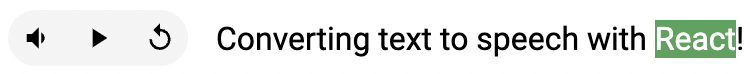
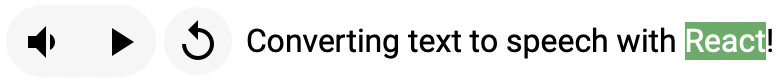
style: the component replay button is now absolutely positioned. (#32)

Changed region(s): [[0.1227, 0.2432, 1.0, 0.7838], [0.0307, 0.3243, 0.092, 0.7027]]

diff --git a/src/control.tsx b/src/control.tsx
@@ -1,11 +1,12 @@
-import { useState, useMemo, useCallback } from 'react'
-import type { MouseEventHandler, CSSProperties } from 'react'
+import { useMemo, useEffect } from 'react'
+import type { MouseEventHandler } from 'react'
 
 import { Sizes, icons, iconSizes } from './icons'
 
 interface ControlProps {
   title: string
   size?: `${Sizes}`
+  align?: 'vertical' | 'horizontal'
   type: 'play' | 'stop' | 'pause' | 'replay' | 'volumeDown' | 'volumeOff' | 'volumeUp'
   onClick: MouseEventHandler<HTMLButtonElement>
 }
@@ -15,42 +16,64 @@ const padding = {
   [Sizes.MEDIUM]: 5,
   [Sizes.LARGE]: 5
 }
-const button = (
-  size: ControlProps['size'] = Sizes.MEDIUM,
-  hovering: boolean
-): CSSProperties => {
-  return {
-    padding: `${padding[size]}px`,
-    margin: 0,
-    border: 'none',
-    background: hovering ? '#ebeaeaa6' : 'transparent',
-    color: 'black',
-    cursor: 'pointer',
-    display: 'flex',
-    alignItems: 'center',
-    justifyContent: 'center',
-    borderRadius: `${iconSizes[size]}px`
-  }
-}
-const Control = ({ title, type, onClick, size, ...rest }: ControlProps) => {
-  const [hovering, setHovering] = useState(false)
+const Control = ({
+  title,
+  type,
+  onClick,
+  size = Sizes.MEDIUM,
+  align = 'horizontal',
+  ...rest
+}: ControlProps) => {
   const svg = useMemo(() => {
     return icons[type]({ size })
   }, [type, size])
-  const onMouseEnter = useCallback(() => {
-    setHovering(true)
-  }, [])
-  const onMouseLeave = useCallback(() => {
-    setHovering(false)
-  }, [])
+
+  useEffect(() => {
+    const styleDataId = 'tts-react-controls'
+    const shift = iconSizes[size] + 2 * padding[size] + 5
+    const trbl = align === 'horizontal' ? `right: -${shift}px` : `bottom: -${shift}px`
+    let style = document.querySelector(`style[data-id="${styleDataId}"]`)
+
+    if (!style) {
+      style = document.createElement('style')
+      style.setAttribute('data-id', styleDataId)
+      document.head.appendChild(style)
+    }
+
+    style.innerHTML = `
+      button[data-tts-react-control] {
+        margin: 0;
+        padding: ${padding[size]}px;
+        border: none;
+        border-radius: ${iconSizes[size]}px;
+        color: black;
+        cursor: pointer;
+        display: flex;
+        align-items: center;
+        justify-content: center;
+        background-color: transparent;
+      }
+      button[data-tts-react-control]:hover {
+        background-color: #ebeaeaa6;
+      }
+      button[data-id="tts-react-replay"] {
+        position: absolute;
+        background: #f2f1f1a6;
+        z-index: 9999;
+        ${trbl};
+      }
+      button[data-id="tts-react-replay"]:hover {
+        background: #ebeaeaa6;
+      }
+    `
+  }, [align, size])
 
   return (
     <button
       title={title}
+      data-tts-react-control
+      data-id={`tts-react-${type}`}
       onClick={onClick}
-      style={button(size, hovering)}
-      onMouseEnter={onMouseEnter}
-      onMouseLeave={onMouseLeave}
       dangerouslySetInnerHTML={{ __html: svg }}
       {...rest}
     />

diff --git a/src/component.tsx b/src/component.tsx
@@ -86,6 +86,7 @@ const controls = ({
   size = Sizes.MEDIUM
 }: StyleProps): CSSProperties => {
   return {
+    position: 'relative',
     display: 'inline-flex',
     flexDirection: align === 'horizontal' ? 'row' : 'column',
     gap: '5px',
@@ -193,6 +194,7 @@ const TextToSpeech = ({
           {allowMuting && (
             <Control
               size={size}
+              align={align}
               title={state.isMuted ? 'Unmute' : 'Mute'}
               aria-label={state.isMuted ? 'Unmute' : 'Mute'}
               onClick={handleOnMuteClicked}
@@ -207,11 +209,13 @@ const TextToSpeech = ({
             aria-label={title}
             onClick={onClick}
             size={size}
+            align={align}
           />
           {state.isPaused && (
             <Control
               type="replay"
               size={size}
+              align={align}
               title="Replay"
               aria-label="Replay"
               onClick={replay}

diff --git a/__tests__/control.tsx b/__tests__/control.tsx
@@ -1,5 +1,5 @@
 import { describe, jest } from '@jest/globals'
-import { render, act, fireEvent } from '@testing-library/react'
+import { render, fireEvent } from '@testing-library/react'
 
 import { Control } from '../src/control'
 
@@ -11,20 +11,6 @@ describe('Control', () => {
     )
 
     expect(getByRole('button', { name: 'Test' })).toBeInTheDocument()
-
-    // Check mouseenter on the button changes background color
-    act(() => {
-      fireEvent.mouseEnter(getByRole('button', { name: 'Test' }))
-    })
-    expect(getByRole('button', { name: 'Test' })).toHaveStyle({ background: '#ebeaeaa6' })
-
-    // Check that mouseleave on the button removes the background color
-    act(() => {
-      fireEvent.mouseLeave(getByRole('button', { name: 'Test' }))
-    })
-    expect(getByRole('button', { name: 'Test' })).toHaveStyle({
-      background: 'transparent'
-    })
 
     // Check onClick
     fireEvent.click(getByRole('button', { name: 'Test' }))

diff --git a/demo/story.tsx b/demo/story.tsx
@@ -587,7 +587,7 @@ export default {
     size: Sizes.MEDIUM,
     allowMuting: true,
     align: 'horizontal',
-    position: Positions.TR,
+    position: Positions.LC,
     markTextAsSpoken: true,
     markColor: 'white',
     markBackgroundColor: '#55AD66',
